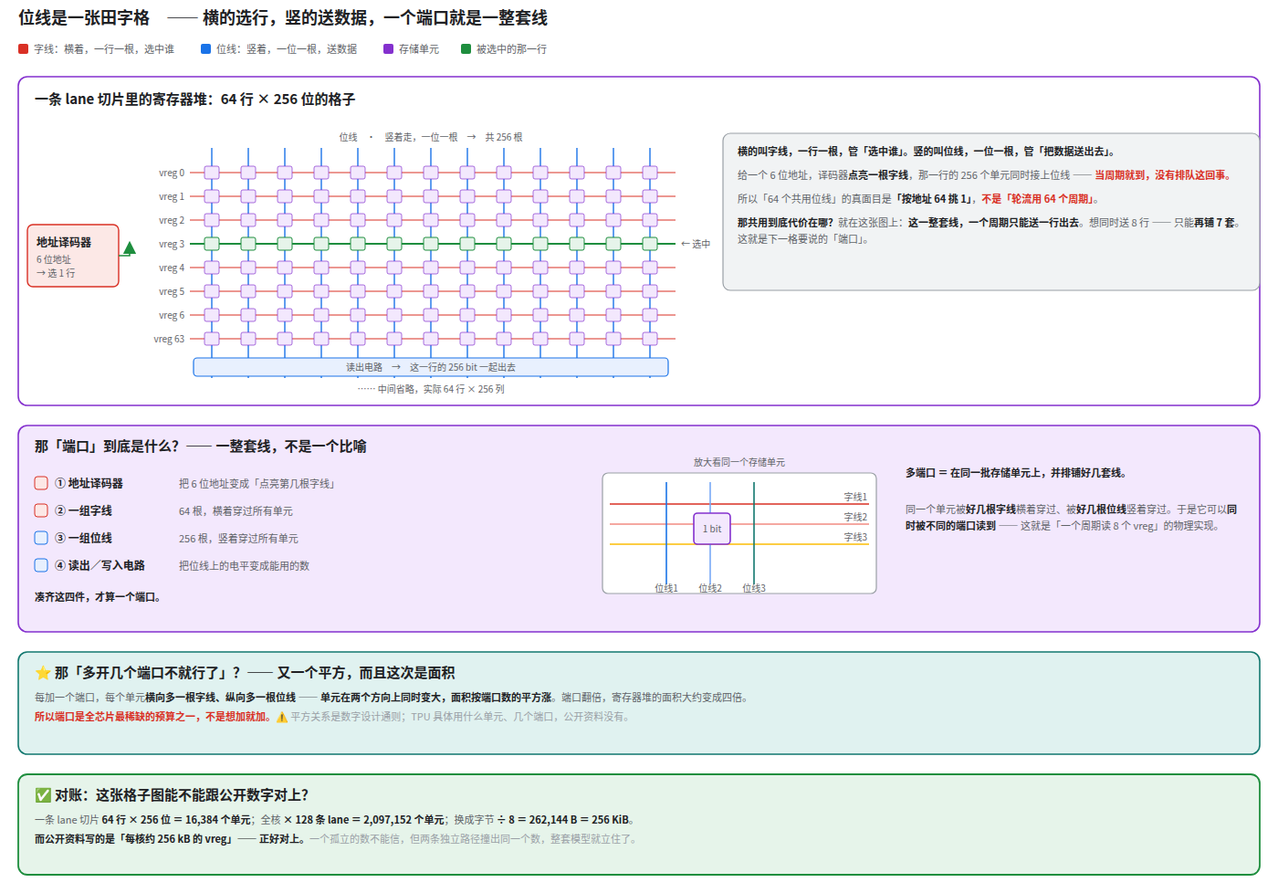
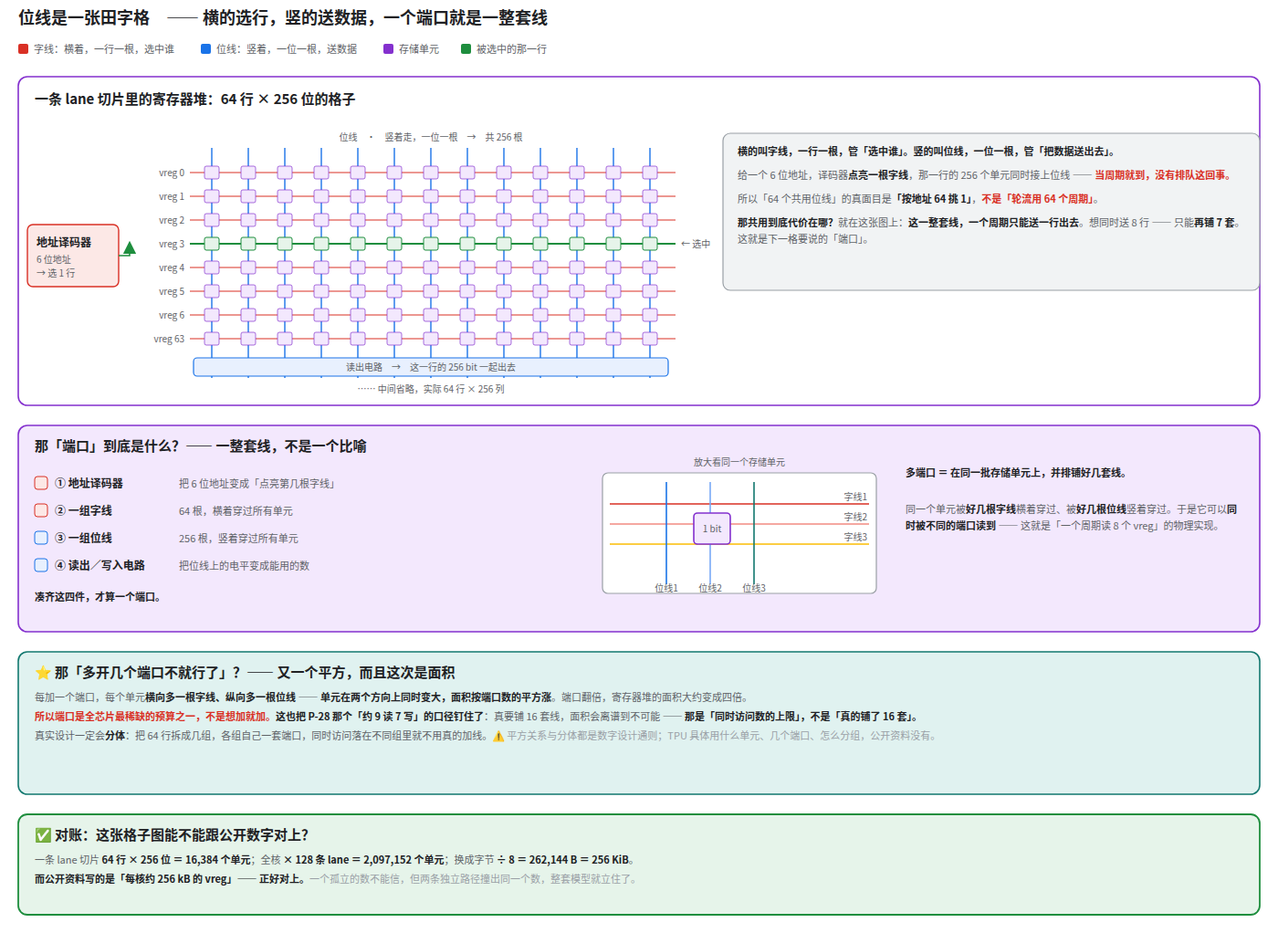
专题二 §3.2：P-26～P-30 五图跨图交叉审计，修 7 处
按维度扫（同一量在各图对账 + 已收回说法是否残留），不按轮次。

硬错三处：
1. P-29 每条 lane 画「ALU ×4」——(lane,sublane) 位置才是 4 个，
   一条 lane 有 8 个 sublane，应为 ×32。原值与全课 4,096 差 8 倍。
   已改 ×32 并补一行 128 × 32 ＝ 4,096 的对账说明。
2. P-28/P-29 说 MXU「阵列比 lane 轴还宽」—— 这依赖代次，
   本文口径是 v5p（128×128），该处并不比 lane 轴宽。
   改为形状论证：权重侧 128 行 vs 一个 vreg 只给 8 行，差 16 倍。
   （中途一版写「相当于 16 个 vreg」也删了 —— 那只在 32 位口径成立。）
3. P-26 docstring 仍把「列与列之间没有直连通路」当成本图的解释，
   而图上那条红带早已把它收回。docstring 改写成收回记录本身。

一致性四处：
4. P-26 底带「仍然没有出处的只剩一件事」—— P-28/29/30 各自又引入了
   推断，这句已不成立。改为不带全称量词的说法。
5. P-28 补一条指向 P-30 的前向指针（「端口」这个词在此处首次落到实处）。
6. P-27 图注不再抢答 P-28 的落点，改为把问题交给下一张图。
7. P-30 新增分体带：把「面积按端口数平方涨」与 P-28 的「约 9 读 7 写」对上 ——
   9/7 是同时访问数的上限，不是真的铺了 16 套线。

九个跨图共享量已逐项对账一致：vreg 个数 64 / 一个 vreg 8×128 /
4 KiB / 全核 256 KiB / ALU 4,096 / 每周期 4 条向量指令 /
每 lane 256 根线 / 端口约 9 读 7 写 / 权重侧差 16 倍。

topic-02.html 重新生成，46 图，29 条禁字自检 0 命中。

Changed region(s): [[0.0, 0.0, 1.0, 0.9509], [0.7064, 0.4908, 0.9829, 0.6135], [0.5836, 0.3067, 0.9829, 0.3374]]

diff --git a/Courses/WebPages/topic-02.html b/Courses/WebPages/topic-02.html
@@ -3876,7 +3876,7 @@ footer a{text-decoration:none}
 <rect x="20" y="896" width="1360" height="92" rx="10" fill="#fce8e6" stroke="#d93025" stroke-width="1.4"/>
 <text x="38" y="924" class="sec">⚠ 一个说法要收回：贵不是因为「没有连线」</text>
 <text x="38" y="950" class="xs">这张图早先的版本写着「列与列之间没有直连通路」——那是想当然，已经删掉。公开资料的说法是：跨 lane <tspan font-weight="700" fill="#202124">至少要过一趟 VMEM／XLU／SMEM</tspan> ——<tspan font-weight="700" fill="#d93025">贵在「出一趟寄存器堆」这个往返，不在缺一根线。</tspan></text>
-<text x="38" y="971" class="xs">下一张图把这个往返画出来。<tspan font-weight="700" fill="#202124">仍然没有出处的只剩一件事：XLU 的内部电路</tspan> ——公开资料只说它是个独立单元、而且慢，没说它里面长什么样。</text>
+<text x="38" y="971" class="xs">下一张图把这个往返画出来。<tspan font-weight="700" fill="#202124">XLU 的内部电路仍然没有出处</tspan> ——公开资料只说它是个独立单元、而且慢，没说它里面长什么样。</text>
 </svg>
 <figcaption>整张图就一件事：<b>同一个寄存器、同一批数，换个方向，代价完全不同</b>。绿的那一列是<b>纵向</b> —— 8 → 4 → 2 → 1，三步，全程没离开自己那套 ALU；红的那一行是<b>横向</b> —— 128 条 lane 各是一套硬件，数要横着走只能交给 <b>XLU</b>，而且往往还得绕一趟 VMEM。<b>黄带才是这张图真正要落的地方</b>：<code>softmax</code> 和 <code>RMSNorm</code> 都沿最后一维求和，而最后一维默认就铺在 lane 方向上 —— <b>最常做的那两个归约，恰好都撞在最贵的方向</b>。⚠ 底带那条不能跳过：<b>「列与列之间没有直连通路」是我给的解释，不是查到的</b>。</figcaption>
 </figure>
@@ -4046,7 +4046,7 @@ footer a{text-decoration:none}
 <text x="38" y="648" class="sec">⚠ 这张图讲的是结构，不是 v7 的规格表</text>
 <text x="38" y="674" class="xs">上面每个数（64 个 vreg、每位置 4 个 ALU、每周期 4 条指令、VMEM 每周期 3 读 1 写）<tspan font-weight="700" fill="#202124">都出自公开资料，而书里标的是 v5p</tspan> —— 它自己就说了 v4 只有 32 个 vreg，<tspan font-weight="700" fill="#202124">所以这些数会跨代变</tspan>。<tspan font-weight="700" fill="#202124">v7 没有同口径的公开数，别把这张图当 v7 的规格表用。</tspan></text>
 </svg>
-<figcaption>上一张图留了个问题：这些部件到底怎么连。<b>答案是中间那个盒子只有一个</b> —— VPU、MXU、XLU 取的是<b>同一批 vreg</b>，各开一个门；既不是各有各的寄存器，也不是挂总线抢带宽。于是「横着走贵」有了更准的说法：<b>贵在要把整个 vreg 交出去、绕一趟、再收回来</b>，不是缺一根线。<b>蓝带那组换算是这门课最该记的一句</b>：一个 ALU ≈ 一个 CUDA core，一条 lane ≈ 一个 warp scheduler ——&nbsp;两边差的从来不是有没有这些部件，是<b>谁在运行时挑活</b>。⚠ 图里的数<b>书里标的是 v5p</b>（v4 只有 32 个 vreg），别当 v7 规格表用。</figcaption>
+<figcaption>上一张图留了个问题：这些部件到底怎么连。<b>答案是中间那个盒子只有一个</b> —— VPU、MXU、XLU 取的是<b>同一批 vreg</b>，各开一个门 —— <b>不是各有各的寄存器</b>（「那到底怎么连的」这个问题下一张图专门答）。于是「横着走贵」有了更准的说法：<b>贵在要把整个 vreg 交出去、绕一趟、再收回来</b>，不是缺一根线。<b>蓝带那组换算是这门课最该记的一句</b>：一个 ALU ≈ 一个 CUDA core，一条 lane ≈ 一个 warp scheduler ——&nbsp;两边差的从来不是有没有这些部件，是<b>谁在运行时挑活</b>。⚠ 图里的数<b>书里标的是 v5p</b>（v4 只有 32 个 vreg），别当 v7 规格表用。</figcaption>
 </figure>
 
   <p><b>「各开一个门」还不够，因为下一个问题必然是：那门后面的线怎么走？</b>
@@ -4125,7 +4125,8 @@ footer a{text-decoration:none}
 <line x1="808" y1="275" x2="1010" y2="275" stroke="#1a73e8" stroke-width="0.7"/>
 <text x="1024" y="274" class="xxs" fill="#1a73e8">装填口</text>
 <text x="1068" y="274" class="xxs" fill="#5f6368">← 便签本</text>
-<text x="674" y="316" class="xs"><tspan font-weight="700" fill="#202124">每一条端口本身就是 128 lane 宽</tspan> —— 128 不是要分给大家用的车道，<tspan font-weight="700" fill="#202124">它是每条通路的宽度</tspan>。真正有限的是<tspan font-weight="700" fill="#202124">端口有几条</tspan>。</text>
+<text x="674" y="316" class="xs"><tspan font-weight="700" fill="#202124">每一条端口本身就是 128 lane 宽</tspan> —— 128 不是要分给大家用的车道，<tspan font-weight="700" fill="#202124">它是每条通路的宽度</tspan>。真正有限的是<tspan font-weight="700" fill="#202124">端口有几条</tspan>。<tspan fill="#9aa0a6">（端口具体是什么</tspan></text>
+<text x="674" y="334" class="xs"><tspan fill="#9aa0a6">线、为什么加不起 —— P-30 拆开画。）</tspan></text>
 <rect x="20" y="352" width="1360" height="96" rx="10" fill="#fef7e0" stroke="#f9ab00" stroke-width="1.6"/>
 <text x="38" y="378" class="sec">🔢 那到底有几条？公开资料没直说 —— 但给了能推的两个数</text>
 <text x="38" y="402" class="xs">① 每周期发 <tspan font-weight="700" fill="#202124">4 条</tspan>向量指令，每条<tspan font-weight="700" fill="#202124">吃 2 个 vreg、写 1 个</tspan>　→　读 8、写 4。　　② 每周期从便签本<tspan font-weight="700" fill="#202124">装 3 个</tspan> vreg、<tspan font-weight="700" fill="#202124">写回 1 个</tspan>　→　再加写 3、读 1。　　<tspan font-weight="700" fill="#202124">合计约 9 读、7 写。</tspan></text>
@@ -4177,8 +4178,9 @@ footer a{text-decoration:none}
 <text x="1066" y="586" class="xxs" fill="#5f6368">队列</text>
 <text x="1126" y="586" class="xs"><tspan font-weight="700" fill="#202124">要</tspan>　←　进料和出料<tspan font-weight="700" fill="#202124">都要</tspan></text>
 <line x1="1066" y1="606" x2="1364" y2="606" stroke="#d93025" stroke-width="0.8" stroke-dasharray="3 3"/>
-<text x="1066" y="626" class="xs">一个 vreg 是 8 × 128，阵列比这大得多，<tspan font-weight="700" fill="#202124">一口喂不满 —— </tspan></text>
-<text x="1066" y="643" class="xs"><tspan font-weight="700" fill="#202124">得连推好几个进去</tspan>。所以它有自己的进料口。</text>
+<text x="1066" y="626" class="xs">一次运算是 <tspan font-weight="700" fill="#202124">8×128 乘 128×128</tspan>。左边那个正好是一个 vreg，</text>
+<text x="1066" y="643" class="xs">可<tspan font-weight="700" fill="#202124">权重那一侧有 128 行，一个 vreg 只给得出 8 行</tspan> —— <tspan font-weight="700" fill="#202124">差</tspan></text>
+<text x="1066" y="660" class="xs"><tspan font-weight="700" fill="#202124"> 16 倍</tspan>，只能分好多趟送。</text>
 <rect x="20" y="742" width="1360" height="112" rx="10" fill="#e8f0fe" stroke="#1a73e8" stroke-width="1.8"/>
 <text x="38" y="770" class="sec" fill="#1a73e8">⭐ 那「撞车」呢？—— 它不存在，因为它在编译期就被消灭了</text>
 <text x="38" y="796" class="xs">TPU 是 <tspan font-weight="700" fill="#202124">VLIW</tspan>：一个指令包里，<tspan font-weight="700" fill="#202124">每类操作有几个固定的位置</tspan>，编译器往里填。填不下就多排一个周期。<tspan font-weight="700" fill="#202124">芯片上没有一个运行时的仲裁器在现场商量谁先走</tspan> —— 冲突不是被解决的，是被<tspan font-weight="700" fill="#202124">提前排掉、根本没机会发生</tspan>。</text>
@@ -4193,7 +4195,7 @@ footer a{text-decoration:none}
     这个质疑<b>完全正确</b>，而且顺着它往下走，正好能把前面所有说法收口 ——&nbsp;
     因为答案不是「线真有那么多」，而是<b>那些线根本不需要汇合到一起</b>。</p>
 <figure class="fbox fwide" id="ms-p29">
-<svg viewBox="0 0 1400 866" width="100%" xmlns="http://www.w3.org/2000/svg" role="img" aria-label="TPU 的向量寄存器堆在版图上被切成 128 条，每条紧贴自己那条 lane 的 ALU；跨 lane 才需要真正的长线，所以才有独立的 XLU">
+<svg viewBox="0 0 1400 892" width="100%" xmlns="http://www.w3.org/2000/svg" role="img" aria-label="TPU 的向量寄存器堆在版图上被切成 128 条，每条紧贴自己那条 lane 的 ALU；跨 lane 才需要真正的长线，所以才有独立的 XLU">
 <text x="20" y="26" class="ttl">版图上它是<tspan font-weight="700">碎的</tspan>　—— 一个 vreg 不用扯 32,768 根线出去，因为那些线<tspan font-weight="700">从来不汇合</tspan></text>
 <rect x="20" y="48" width="11" height="11" rx="2" fill="#8430ce"/>
 <text x="37" y="58" class="sm">vreg 存储（切片）</text>
@@ -4207,7 +4209,7 @@ footer a{text-decoration:none}
 <text x="38" y="110" class="sec">🔢 先纠一个单位：<tspan font-weight="700">一根走线传的是一个 bit，不是一个数</tspan></text>
 <text x="38" y="134" class="xs">一个 vreg ＝ 8 sublane × 128 lane × 32 bit ＝ <tspan font-weight="700" fill="#202124">32,768 bit</tspan>　→　<tspan font-weight="700" fill="#202124">要一次整个读出来，就是 32,768 根线</tspan>，不是 128 根。</text>
 <text x="38" y="154" class="xs"><tspan font-weight="700" fill="#d93025">「那也太荒唐了」—— 对，所以它不是一整块。</tspan>下面这张图就是它真实的样子。</text>
-<rect x="20" y="198" width="1360" height="274" rx="10" fill="#fff" stroke="#8430ce" stroke-width="1.6"/>
+<rect x="20" y="198" width="1360" height="300" rx="10" fill="#fff" stroke="#8430ce" stroke-width="1.6"/>
 <rect x="40" y="244" width="58" height="120" rx="4" fill="#f3e8fd" stroke="#8430ce" stroke-width="1.2"/>
 <rect x="47" y="254" width="44" height="9" rx="1" fill="#fff" stroke="#8430ce" stroke-width="0.6"/>
 <rect x="47" y="268" width="44" height="9" rx="1" fill="#fff" stroke="#8430ce" stroke-width="0.6"/>
@@ -4220,7 +4222,7 @@ footer a{text-decoration:none}
 <line x1="69.0" y1="364" x2="69.0" y2="394" stroke="#9aa0a6" stroke-width="5.0"/>
 <rect x="40" y="394" width="58" height="42" rx="4" fill="#e6f4ea" stroke="#1e8e3e" stroke-width="1.2"/>
 <text x="69.0" y="412" class="xxs" fill="#1e8e3e" text-anchor="middle">ALU</text>
-<text x="69.0" y="427" class="xxs" fill="#5f6368" text-anchor="middle">×4</text>
+<text x="69.0" y="427" class="xxs" fill="#5f6368" text-anchor="middle">×32</text>
 <text x="69.0" y="452" class="xxs" fill="#5f6368" text-anchor="middle">lane 0</text>
 <rect x="104" y="244" width="58" height="120" rx="4" fill="#f3e8fd" stroke="#8430ce" stroke-width="1.2"/>
 <rect x="111" y="254" width="44" height="9" rx="1" fill="#fff" stroke="#8430ce" stroke-width="0.6"/>
@@ -4234,7 +4236,7 @@ footer a{text-decoration:none}
 <line x1="133.0" y1="364" x2="133.0" y2="394" stroke="#9aa0a6" stroke-width="5.0"/>
 <rect x="104" y="394" width="58" height="42" rx="4" fill="#e6f4ea" stroke="#1e8e3e" stroke-width="1.2"/>
 <text x="133.0" y="412" class="xxs" fill="#1e8e3e" text-anchor="middle">ALU</text>
-<text x="133.0" y="427" class="xxs" fill="#5f6368" text-anchor="middle">×4</text>
+<text x="133.0" y="427" class="xxs" fill="#5f6368" text-anchor="middle">×32</text>
 <text x="133.0" y="452" class="xxs" fill="#5f6368" text-anchor="middle">lane 1</text>
 <rect x="168" y="244" width="58" height="120" rx="4" fill="#f3e8fd" stroke="#8430ce" stroke-width="1.2"/>
 <rect x="175" y="254" width="44" height="9" rx="1" fill="#fff" stroke="#8430ce" stroke-width="0.6"/>
@@ -4248,7 +4250,7 @@ footer a{text-decoration:none}
 <line x1="197.0" y1="364" x2="197.0" y2="394" stroke="#9aa0a6" stroke-width="5.0"/>
 <rect x="168" y="394" width="58" height="42" rx="4" fill="#e6f4ea" stroke="#1e8e3e" stroke-width="1.2"/>
 <text x="197.0" y="412" class="xxs" fill="#1e8e3e" text-anchor="middle">ALU</text>
-<text x="197.0" y="427" class="xxs" fill="#5f6368" text-anchor="middle">×4</text>
+<text x="197.0" y="427" class="xxs" fill="#5f6368" text-anchor="middle">×32</text>
 <text x="197.0" y="452" class="xxs" fill="#5f6368" text-anchor="middle">lane 2</text>
 <rect x="232" y="244" width="58" height="120" rx="4" fill="#f3e8fd" stroke="#8430ce" stroke-width="1.2"/>
 <rect x="239" y="254" width="44" height="9" rx="1" fill="#fff" stroke="#8430ce" stroke-width="0.6"/>
@@ -4262,7 +4264,7 @@ footer a{text-decoration:none}
 <line x1="261.0" y1="364" x2="261.0" y2="394" stroke="#9aa0a6" stroke-width="5.0"/>
 <rect x="232" y="394" width="58" height="42" rx="4" fill="#e6f4ea" stroke="#1e8e3e" stroke-width="1.2"/>
 <text x="261.0" y="412" class="xxs" fill="#1e8e3e" text-anchor="middle">ALU</text>
-<text x="261.0" y="427" class="xxs" fill="#5f6368" text-anchor="middle">×4</text>
+<text x="261.0" y="427" class="xxs" fill="#5f6368" text-anchor="middle">×32</text>
 <text x="261.0" y="452" class="xxs" fill="#5f6368" text-anchor="middle">lane 3</text>
 <rect x="296" y="244" width="58" height="120" rx="4" fill="#f3e8fd" stroke="#8430ce" stroke-width="1.2"/>
 <rect x="303" y="254" width="44" height="9" rx="1" fill="#fff" stroke="#8430ce" stroke-width="0.6"/>
@@ -4276,7 +4278,7 @@ footer a{text-decoration:none}
 <line x1="325.0" y1="364" x2="325.0" y2="394" stroke="#9aa0a6" stroke-width="5.0"/>
 <rect x="296" y="394" width="58" height="42" rx="4" fill="#e6f4ea" stroke="#1e8e3e" stroke-width="1.2"/>
 <text x="325.0" y="412" class="xxs" fill="#1e8e3e" text-anchor="middle">ALU</text>
-<text x="325.0" y="427" class="xxs" fill="#5f6368" text-anchor="middle">×4</text>
+<text x="325.0" y="427" class="xxs" fill="#5f6368" text-anchor="middle">×32</text>
 <text x="325.0" y="452" class="xxs" fill="#5f6368" text-anchor="middle">lane 4</text>
 <rect x="360" y="244" width="58" height="120" rx="4" fill="#f3e8fd" stroke="#8430ce" stroke-width="1.2"/>
 <rect x="367" y="254" width="44" height="9" rx="1" fill="#fff" stroke="#8430ce" stroke-width="0.6"/>
@@ -4290,7 +4292,7 @@ footer a{text-decoration:none}
 <line x1="389.0" y1="364" x2="389.0" y2="394" stroke="#9aa0a6" stroke-width="5.0"/>
 <rect x="360" y="394" width="58" height="42" rx="4" fill="#e6f4ea" stroke="#1e8e3e" stroke-width="1.2"/>
 <text x="389.0" y="412" class="xxs" fill="#1e8e3e" text-anchor="middle">ALU</text>
-<text x="389.0" y="427" class="xxs" fill="#5f6368" text-anchor="middle">×4</text>
+<text x="389.0" y="427" class="xxs" fill="#5f6368" text-anchor="middle">×32</text>
 <text x="389.0" y="452" class="xxs" fill="#5f6368" text-anchor="middle">lane 5</text>
 <rect x="424" y="244" width="58" height="120" rx="4" fill="#f3e8fd" stroke="#8430ce" stroke-width="1.2"/>
 <rect x="431" y="254" width="44" height="9" rx="1" fill="#fff" stroke="#8430ce" stroke-width="0.6"/>
@@ -4304,7 +4306,7 @@ footer a{text-decoration:none}
 <line x1="453.0" y1="364" x2="453.0" y2="394" stroke="#9aa0a6" stroke-width="5.0"/>
 <rect x="424" y="394" width="58" height="42" rx="4" fill="#e6f4ea" stroke="#1e8e3e" stroke-width="1.2"/>
 <text x="453.0" y="412" class="xxs" fill="#1e8e3e" text-anchor="middle">ALU</text>
-<text x="453.0" y="427" class="xxs" fill="#5f6368" text-anchor="middle">×4</text>
+<text x="453.0" y="427" class="xxs" fill="#5f6368" text-anchor="middle">×32</text>
 <text x="453.0" y="452" class="xxs" fill="#5f6368" text-anchor="middle">lane 6</text>
 <rect x="488" y="244" width="58" height="120" rx="4" fill="#f3e8fd" stroke="#8430ce" stroke-width="1.2"/>
 <rect x="495" y="254" width="44" height="9" rx="1" fill="#fff" stroke="#8430ce" stroke-width="0.6"/>
@@ -4318,7 +4320,7 @@ footer a{text-decoration:none}
 <line x1="517.0" y1="364" x2="517.0" y2="394" stroke="#9aa0a6" stroke-width="5.0"/>
 <rect x="488" y="394" width="58" height="42" rx="4" fill="#e6f4ea" stroke="#1e8e3e" stroke-width="1.2"/>
 <text x="517.0" y="412" class="xxs" fill="#1e8e3e" text-anchor="middle">ALU</text>
-<text x="517.0" y="427" class="xxs" fill="#5f6368" text-anchor="middle">×4</text>
+<text x="517.0" y="427" class="xxs" fill="#5f6368" text-anchor="middle">×32</text>
 <text x="517.0" y="452" class="xxs" fill="#5f6368" text-anchor="middle">lane 7</text>
 <rect x="552" y="244" width="58" height="120" rx="4" fill="#f3e8fd" stroke="#8430ce" stroke-width="1.2"/>
 <rect x="559" y="254" width="44" height="9" rx="1" fill="#fff" stroke="#8430ce" stroke-width="0.6"/>
@@ -4332,7 +4334,7 @@ footer a{text-decoration:none}
 <line x1="581.0" y1="364" x2="581.0" y2="394" stroke="#9aa0a6" stroke-width="5.0"/>
 <rect x="552" y="394" width="58" height="42" rx="4" fill="#e6f4ea" stroke="#1e8e3e" stroke-width="1.2"/>
 <text x="581.0" y="412" class="xxs" fill="#1e8e3e" text-anchor="middle">ALU</text>
-<text x="581.0" y="427" class="xxs" fill="#5f6368" text-anchor="middle">×4</text>
+<text x="581.0" y="427" class="xxs" fill="#5f6368" text-anchor="middle">×32</text>
 <text x="581.0" y="452" class="xxs" fill="#5f6368" text-anchor="middle">lane 8</text>
 <text x="638" y="374" class="ttl" fill="#5f6368" text-anchor="middle">…</text>
 <rect x="662" y="244" width="58" height="120" rx="4" fill="#f3e8fd" stroke="#8430ce" stroke-width="1.2"/>
@@ -4347,8 +4349,9 @@ footer a{text-decoration:none}
 <line x1="691.0" y1="364" x2="691.0" y2="394" stroke="#9aa0a6" stroke-width="5.0"/>
 <rect x="662" y="394" width="58" height="42" rx="4" fill="#e6f4ea" stroke="#1e8e3e" stroke-width="1.2"/>
 <text x="691.0" y="412" class="xxs" fill="#1e8e3e" text-anchor="middle">ALU</text>
-<text x="691.0" y="427" class="xxs" fill="#5f6368" text-anchor="middle">×4</text>
+<text x="691.0" y="427" class="xxs" fill="#5f6368" text-anchor="middle">×32</text>
 <text x="691.0" y="452" class="xxs" fill="#5f6368" text-anchor="middle">lane 127</text>
+<text x="380.0" y="472" class="xxs" fill="#5f6368" text-anchor="middle">每条 lane 底下 8 × 4 ＝ 32 个 ALU　→　128 × 32 ＝ 4,096，这就是公开资料那个数</text>
 <line x1="40" y1="228" x2="720" y2="228" stroke="#8430ce" stroke-width="1.2" stroke-dasharray="4 3"/>
 <text x="380.0" y="222" class="xxs" fill="#8430ce" text-anchor="middle">同一个 vreg 的 128 个切片　—— 它们并排，但彼此不相连</text>
 <text x="79.0" y="383.0" class="xxs" fill="#202124">256 根</text>
@@ -4357,37 +4360,38 @@ footer a{text-decoration:none}
 <text x="802" y="276" class="xs">128 份加起来确实是 32,768 根，<tspan font-weight="700" fill="#d93025">但它们从来不汇合</tspan>。所以「128 宽」是 <tspan font-weight="700" fill="#202124">128 份并行的硬件</tspan>，不是一条粗 128 </text>
 <text x="802" y="294" class="xs">倍的线。</text>
 <text x="802" y="320" class="xs"><tspan font-weight="700" fill="#202124">「顶多一百多根」这个直觉是对的</tspan> —— 那是每条 lane 的局部数，被当成了全局数。</text>
-<rect x="20" y="494" width="438" height="214" rx="9" fill="#f3e8fd" stroke="#8430ce" stroke-width="1.4"/>
-<text x="34" y="518" class="box" fill="#8430ce">① vreg ↔ 其他 63 个 vreg</text>
-<text x="444" y="518" class="xxs" fill="#5f6368" text-anchor="end">完全不连</text>
-<text x="34" y="542" class="xs"><tspan font-weight="700" fill="#202124">它们之间没有任何直接通路。</tspan>要把 vreg 3 挪到 vreg 7，唯一的办法是<tspan font-weight="700" fill="#202124">读出来、过</tspan></text>
-<text x="34" y="560" class="xs"><tspan font-weight="700" fill="#202124">一遍 ALU、再写回去</tspan>。</text>
-<line x1="34" y1="584" x2="444" y2="584" stroke="#8430ce" stroke-width="0.8" stroke-dasharray="3 3"/>
-<text x="34" y="604" class="xs">它们共用<tspan font-weight="700" fill="#202124">位线</tspan>：一条切片里 64 行共用一组线，靠<tspan font-weight="700" fill="#202124">地址</tspan>挑一行。<tspan font-weight="700" fill="#d93025">但这不是轮转排队</tspan> </text>
-<text x="34" y="622" class="xs">—— 你要哪一行就是哪一行，<tspan font-weight="700" fill="#202124">当周期就到</tspan>，不存在「等 64 个周期才轮到我」。共用</text>
-<text x="34" y="640" class="xs">的代价是<tspan font-weight="700" fill="#202124">一条端口一个周期只能送一行</tspan>：想同时送 8 行，就得有 8 条端口 —— <tspan font-weight="700" fill="#202124">真</tspan></text>
-<text x="34" y="658" class="xs"><tspan font-weight="700" fill="#202124">正的预算是端口数，不是 64。</tspan></text>
-<rect x="476" y="494" width="438" height="214" rx="9" fill="#e6f4ea" stroke="#1e8e3e" stroke-width="1.4"/>
-<text x="490" y="518" class="box" fill="#1e8e3e">② vreg ↔ VPU</text>
-<text x="900" y="518" class="xxs" fill="#5f6368" text-anchor="end">贴着，几微米</text>
-<text x="490" y="542" class="xs">根本不用「扯出去」。<tspan font-weight="700" fill="#202124">vreg 的 lane 5 和 ALU 的 lane 5 在芯片上是挨着的</tspan>，</text>
-<text x="490" y="560" class="xs">中间就是那 256 根短线。</text>
-<line x1="490" y1="584" x2="900" y2="584" stroke="#1e8e3e" stroke-width="0.8" stroke-dasharray="3 3"/>
-<text x="490" y="604" class="xs"><tspan font-weight="700" fill="#202124">这就是逐元素算子便宜的物理原因</tspan>：它走的是全芯片最短的一条路，而且 128 条同</text>
-<text x="490" y="622" class="xs">时在走。</text>
-<rect x="932" y="494" width="438" height="214" rx="9" fill="#fce8e6" stroke="#d93025" stroke-width="1.4"/>
-<text x="946" y="518" class="box" fill="#d93025">③ vreg ↔ MXU / XLU</text>
-<text x="1356" y="518" class="xxs" fill="#5f6368" text-anchor="end">真的要扯出去</text>
-<text x="946" y="542" class="xs">MXU 是个<tspan font-weight="700" fill="#202124">独立的块</tspan>，阵列比 lane 轴还宽，一口喂不满；XLU 更是<tspan font-weight="700" fill="#202124">必须同时够到全</tspan></text>
-<text x="946" y="560" class="xs"><tspan font-weight="700" fill="#202124">部 128 条 lane</tspan>。</text>
-<line x1="946" y1="584" x2="1356" y2="584" stroke="#d93025" stroke-width="0.8" stroke-dasharray="3 3"/>
-<text x="946" y="604" class="xs"><tspan font-weight="700" fill="#d93025">所以只有这两条是真正的长路。</tspan>它们因此各自配了进料口、结果队列，而且<tspan font-weight="700" fill="#202124">全核只有</tspan></text>
-<text x="946" y="622" class="xs"><tspan font-weight="700" fill="#202124">一两个</tspan> —— 长而宽的路，芯片不会多铺。</text>
-<rect x="20" y="730" width="1360" height="116" rx="10" fill="#fce8e6" stroke="#d93025" stroke-width="1.6"/>
-<text x="38" y="756" class="sec">⚠ 「按 lane 切片」这件事是推出来的，不是查到的版图</text>
-<text x="38" y="780" class="xs">推导链有两条。<tspan font-weight="700" fill="#202124">一</tspan>：4,096 个 ALU 不可能靠一个集中的寄存器堆去喂，布线在物理上过不去。<tspan font-weight="700" fill="#202124">二</tspan>：如果寄存器堆是集中的，那个交叉开关本来就在那儿了，跨 lane 就不该特别贵 —— <tspan font-weight="700" fill="#202124">而它特别贵，还专门做了一个独立单元。「XLU 存在」这件事本身，就是版图按 lane </tspan></text>
-<text x="38" y="798" class="xs"><tspan font-weight="700" fill="#202124">切的证据。</tspan></text>
-<text x="38" y="818" class="xs"><tspan font-weight="700" fill="#d93025">没查到的：具体的 bank 怎么划、位线怎么排、真实 floorplan —— 公开资料没有。</tspan>上面讲的是<tspan font-weight="700" fill="#202124">数量级和拓扑</tspan>，不是版图图纸。</text>
+<rect x="20" y="520" width="438" height="214" rx="9" fill="#f3e8fd" stroke="#8430ce" stroke-width="1.4"/>
+<text x="34" y="544" class="box" fill="#8430ce">① vreg ↔ 其他 63 个 vreg</text>
+<text x="444" y="544" class="xxs" fill="#5f6368" text-anchor="end">完全不连</text>
+<text x="34" y="568" class="xs"><tspan font-weight="700" fill="#202124">它们之间没有任何直接通路。</tspan>要把 vreg 3 挪到 vreg 7，唯一的办法是<tspan font-weight="700" fill="#202124">读出来、过</tspan></text>
+<text x="34" y="586" class="xs"><tspan font-weight="700" fill="#202124">一遍 ALU、再写回去</tspan>。</text>
+<line x1="34" y1="610" x2="444" y2="610" stroke="#8430ce" stroke-width="0.8" stroke-dasharray="3 3"/>
+<text x="34" y="630" class="xs">它们共用<tspan font-weight="700" fill="#202124">位线</tspan>：一条切片里 64 行共用一组线，靠<tspan font-weight="700" fill="#202124">地址</tspan>挑一行。<tspan font-weight="700" fill="#d93025">但这不是轮转排队</tspan> </text>
+<text x="34" y="648" class="xs">—— 你要哪一行就是哪一行，<tspan font-weight="700" fill="#202124">当周期就到</tspan>，不存在「等 64 个周期才轮到我」。共用</text>
+<text x="34" y="666" class="xs">的代价是<tspan font-weight="700" fill="#202124">一条端口一个周期只能送一行</tspan>：想同时送 8 行，就得有 8 条端口 —— <tspan font-weight="700" fill="#202124">真</tspan></text>
+<text x="34" y="684" class="xs"><tspan font-weight="700" fill="#202124">正的预算是端口数，不是 64。</tspan></text>
+<rect x="476" y="520" width="438" height="214" rx="9" fill="#e6f4ea" stroke="#1e8e3e" stroke-width="1.4"/>
+<text x="490" y="544" class="box" fill="#1e8e3e">② vreg ↔ VPU</text>
+<text x="900" y="544" class="xxs" fill="#5f6368" text-anchor="end">贴着，几微米</text>
+<text x="490" y="568" class="xs">根本不用「扯出去」。<tspan font-weight="700" fill="#202124">vreg 的 lane 5 和 ALU 的 lane 5 在芯片上是挨着的</tspan>，</text>
+<text x="490" y="586" class="xs">中间就是那 256 根短线。</text>
+<line x1="490" y1="610" x2="900" y2="610" stroke="#1e8e3e" stroke-width="0.8" stroke-dasharray="3 3"/>
+<text x="490" y="630" class="xs"><tspan font-weight="700" fill="#202124">这就是逐元素算子便宜的物理原因</tspan>：它走的是全芯片最短的一条路，而且 128 条同</text>
+<text x="490" y="648" class="xs">时在走。</text>
+<rect x="932" y="520" width="438" height="214" rx="9" fill="#fce8e6" stroke="#d93025" stroke-width="1.4"/>
+<text x="946" y="544" class="box" fill="#d93025">③ vreg ↔ MXU / XLU</text>
+<text x="1356" y="544" class="xxs" fill="#5f6368" text-anchor="end">真的要扯出去</text>
+<text x="946" y="568" class="xs">MXU 是个<tspan font-weight="700" fill="#202124">独立的块</tspan>：一次运算吃 <tspan font-weight="700" fill="#202124">8×128 乘 128×128</tspan>。左边正好一个 vreg，可<tspan font-weight="700" fill="#202124">权重</tspan></text>
+<text x="946" y="586" class="xs"><tspan font-weight="700" fill="#202124">那侧有 128 行，一个 vreg 只给 8 行</tspan> —— <tspan font-weight="700" fill="#202124">差 16 倍</tspan>，喂不满；XLU 更是<tspan font-weight="700" fill="#202124">必须同</tspan></text>
+<text x="946" y="604" class="xs"><tspan font-weight="700" fill="#202124">时够到全部 128 条 lane</tspan>。</text>
+<line x1="946" y1="628" x2="1356" y2="628" stroke="#d93025" stroke-width="0.8" stroke-dasharray="3 3"/>
+<text x="946" y="648" class="xs"><tspan font-weight="700" fill="#d93025">所以只有这两条是真正的长路。</tspan>它们因此各自配了进料口、结果队列，而且<tspan font-weight="700" fill="#202124">全核只有</tspan></text>
+<text x="946" y="666" class="xs"><tspan font-weight="700" fill="#202124">一两个</tspan> —— 长而宽的路，芯片不会多铺。</text>
+<rect x="20" y="756" width="1360" height="116" rx="10" fill="#fce8e6" stroke="#d93025" stroke-width="1.6"/>
+<text x="38" y="782" class="sec">⚠ 「按 lane 切片」这件事是推出来的，不是查到的版图</text>
+<text x="38" y="806" class="xs">推导链有两条。<tspan font-weight="700" fill="#202124">一</tspan>：4,096 个 ALU 不可能靠一个集中的寄存器堆去喂，布线在物理上过不去。<tspan font-weight="700" fill="#202124">二</tspan>：如果寄存器堆是集中的，那个交叉开关本来就在那儿了，跨 lane 就不该特别贵 —— <tspan font-weight="700" fill="#202124">而它特别贵，还专门做了一个独立单元。「XLU 存在」这件事本身，就是版图按 lane </tspan></text>
+<text x="38" y="824" class="xs"><tspan font-weight="700" fill="#202124">切的证据。</tspan></text>
+<text x="38" y="844" class="xs"><tspan font-weight="700" fill="#d93025">没查到的：具体的 bank 怎么划、位线怎么排、真实 floorplan —— 公开资料没有。</tspan>上面讲的是<tspan font-weight="700" fill="#202124">数量级和拓扑</tspan>，不是版图图纸。</text>
 </svg>
 <figcaption>P-28 说「每条端口本身就是 128 宽」，最较真的追问紧接着就来：<b>一个 vreg 才 4 KB，它怎么可能扯出去那么多根线？</b>这个质疑<b>完全正确</b> —— 而且答案不是「线真有那么多」，是<b>「它们根本不需要汇合」</b>。先纠单位：一根走线传<b>一个 bit</b>，所以一个 vreg 是 8 × 128 × 32 ＝ <b>32,768 根</b>，不是 128 根。荒唐 → 所以它不是一整块：<b>整条数据通路按 lane 切成 128 份，存储就贴在自己那条 lane 的 ALU 旁边</b>，每份只要 <b>256 根线、走几微米</b>。于是三个问题一次答完：<b>64 个 vreg 之间完全不连</b>（只共用位线，而且是<b>按地址选通、当周期就到</b>，<b>不是轮转排队</b> —— 共用的代价是「一条端口一周期只送一行」，不是「等 64 个周期」）；<b>到 VPU 是贴着的</b>；<b>只有 MXU 和 XLU 才真的要扯长线</b> —— 这也正是它们要队列、要共享的原因。⚠ 红带那条必须念：<b>「按 lane 切片」是推的，不是查到的版图</b>，具体 bank 划分与 floorplan 公开资料没有。</figcaption>
 </figure>
@@ -4397,7 +4401,7 @@ footer a{text-decoration:none}
     <b>那样推下去，64 个 vreg 岂不是要 64 个周期才轮到一回？</b>
     而公开资料明说一个周期就能到 VPU。<b>两句话对不上，对不上的是那个比喻，不是硬件。</b></p>
 <figure class="fbox fwide" id="ms-p30">
-<svg viewBox="0 0 1400 978" width="100%" xmlns="http://www.w3.org/2000/svg" role="img" aria-label="TPU 向量寄存器堆的位线结构：横向字线按地址选中一行，纵向位线把那一行的数据送出去；一个端口就是一整套这样的线">
+<svg viewBox="0 0 1400 1022" width="100%" xmlns="http://www.w3.org/2000/svg" role="img" aria-label="TPU 向量寄存器堆的位线结构：横向字线按地址选中一行，纵向位线把那一行的数据送出去；一个端口就是一整套这样的线">
 <text x="20" y="26" class="ttl">位线是一张<tspan font-weight="700">田字格</tspan>　—— 横的选行，竖的送数据，<tspan font-weight="700">一个端口就是一整套线</tspan></text>
 <rect x="20" y="48" width="11" height="11" rx="2" fill="#d93025"/>
 <text x="37" y="58" class="sm">字线：横着，一行一根，选中谁</text>
@@ -4592,14 +4596,15 @@ footer a{text-decoration:none}
 <text x="992" y="522" class="xs"><tspan font-weight="700" fill="#202124">多端口 ＝ 在同一批存储单元上，并排铺好几套线。</tspan></text>
 <text x="992" y="562" class="xs">同一个单元被<tspan font-weight="700" fill="#202124">好几根字线</tspan>横着穿过、被<tspan font-weight="700" fill="#202124">好几根位线</tspan>竖着穿过。于是它可以<tspan font-weight="700" fill="#202124">同</tspan></text>
 <text x="992" y="580" class="xs"><tspan font-weight="700" fill="#202124">时被不同的端口读到</tspan> —— 这就是「一个周期读 8 个 vreg」的物理实现。</text>
-<rect x="20" y="714" width="1360" height="112" rx="10" fill="#e0f2f0" stroke="#12786f" stroke-width="1.6"/>
+<rect x="20" y="714" width="1360" height="156" rx="10" fill="#e0f2f0" stroke="#12786f" stroke-width="1.6"/>
 <text x="38" y="742" class="sec" fill="#12786f">⭐ 那「多开几个端口不就行了」？—— 又一个平方，而且这次是面积</text>
 <text x="38" y="768" class="xs">每加一个端口，每个单元<tspan font-weight="700" fill="#202124">横向多一根字线、纵向多一根位线</tspan> —— <tspan font-weight="700" fill="#202124">单元在两个方向上同时变大，面积按端口数的平方涨</tspan>。端口翻倍，寄存器堆的面积大约变成四倍。</text>
-<text x="38" y="789" class="xs"><tspan font-weight="700" fill="#d93025">所以端口是全芯片最稀缺的预算之一，不是想加就加。</tspan><tspan fill="#9aa0a6">⚠ 平方关系是数字设计通则；TPU 具体用什么单元、几个端口，公开资料没有。</tspan></text>
-<rect x="20" y="848" width="1360" height="110" rx="10" fill="#e6f4ea" stroke="#1e8e3e" stroke-width="1.8"/>
-<text x="38" y="876" class="sec" fill="#1e8e3e">✅ 对账：这张格子图能不能跟公开数字对上？</text>
-<text x="38" y="902" class="xs">一条 lane 切片 <tspan font-weight="700" fill="#202124">64 行 × 256 位 ＝ 16,384 个单元</tspan>；全核 <tspan font-weight="700" fill="#202124">× 128 条 lane ＝ 2,097,152 个单元</tspan>；换成字节 <tspan font-weight="700" fill="#202124">÷ 8 ＝ 262,144 B ＝ 256 KiB</tspan>。</text>
-<text x="38" y="923" class="xs"><tspan font-weight="700" fill="#202124">而公开资料写的是「每核约 256 kB 的 vreg」—— 正好对上。</tspan><tspan fill="#9aa0a6">一个孤立的数不能信，但两条独立路径撞出同一个数，整套模型就立住了。</tspan></text>
+<text x="38" y="789" class="xs"><tspan font-weight="700" fill="#d93025">所以端口是全芯片最稀缺的预算之一，不是想加就加。</tspan><tspan font-weight="700" fill="#202124">这也把 P-28 那个「约 9 读 7 写」的口径钉住了</tspan>：真要铺 16 套线，面积会离谱到不可能 —— <tspan font-weight="700" fill="#202124">那是「同时访问数的上限」，不是「真的铺了 16 套」。</tspan></text>
+<text x="38" y="810" class="xs">真实设计一定会<tspan font-weight="700" fill="#202124">分体</tspan>：把 64 行拆成几组，各组自己一套端口，同时访问落在不同组里就不用真的加线。<tspan fill="#9aa0a6">⚠ 平方关系与分体都是数字设计通则；TPU 具体用什么单元、几个端口、怎么分组，公开资料没有。</tspan></text>
+<rect x="20" y="892" width="1360" height="110" rx="10" fill="#e6f4ea" stroke="#1e8e3e" stroke-width="1.8"/>
+<text x="38" y="920" class="sec" fill="#1e8e3e">✅ 对账：这张格子图能不能跟公开数字对上？</text>
+<text x="38" y="946" class="xs">一条 lane 切片 <tspan font-weight="700" fill="#202124">64 行 × 256 位 ＝ 16,384 个单元</tspan>；全核 <tspan font-weight="700" fill="#202124">× 128 条 lane ＝ 2,097,152 个单元</tspan>；换成字节 <tspan font-weight="700" fill="#202124">÷ 8 ＝ 262,144 B ＝ 256 KiB</tspan>。</text>
+<text x="38" y="967" class="xs"><tspan font-weight="700" fill="#202124">而公开资料写的是「每核约 256 kB 的 vreg」—— 正好对上。</tspan><tspan fill="#9aa0a6">一个孤立的数不能信，但两条独立路径撞出同一个数，整套模型就立住了。</tspan></text>
 </svg>
 <figcaption>「位线」这个词前面用了好几次，但一直没画。它其实就是一张<b>田字格</b>：<b>横着的是字线，一行一根，管「选中谁」；竖着的是位线，一位一根，管「把数据送出去」</b>。给一个 6 位地址，译码器点亮一根字线，那一行的 256 个单元同时接上位线 —— <b>当周期就到，没有排队这回事</b>。所以「64 个共用位线」的真面目是<b>按地址 64 挑 1</b>，<b>不是轮流用 64 个周期</b>。这张图顺带把「端口」落到实处：<b>一个端口 ＝ 译码器 ＋ 一组字线 ＋ 一组位线 ＋ 读出电路</b>，多端口就是在同一批单元上并排铺好几套线 —— 于是「多开几个端口」代价是<b>面积按端口数的平方涨</b>。⭐ 最值得看的是绿带那个对账：<b>64 × 256 × 128 ÷ 8 ＝ 256 KiB，正好等于公开资料说的「每核约 256 kB vreg」</b> —— 两条独立路径撞出同一个数，前面整套模型才算立住。</figcaption>
 </figure>

diff --git a/Courses/tools/topic02-port-microscope.py b/Courses/tools/topic02-port-microscope.py
@@ -204,7 +204,7 @@ CAP = {
 "p30": "「位线」这个词前面用了好几次，但一直没画。它其实就是一张<b>田字格</b>：<b>横着的是字线，一行一根，管「选中谁」；竖着的是位线，一位一根，管「把数据送出去」</b>。给一个 6 位地址，译码器点亮一根字线，那一行的 256 个单元同时接上位线 —— <b>当周期就到，没有排队这回事</b>。所以「64 个共用位线」的真面目是<b>按地址 64 挑 1</b>，<b>不是轮流用 64 个周期</b>。这张图顺带把「端口」落到实处：<b>一个端口 ＝ 译码器 ＋ 一组字线 ＋ 一组位线 ＋ 读出电路</b>，多端口就是在同一批单元上并排铺好几套线 —— 于是「多开几个端口」代价是<b>面积按端口数的平方涨</b>。⭐ 最值得看的是绿带那个对账：<b>64 × 256 × 128 ÷ 8 ＝ 256 KiB，正好等于公开资料说的「每核约 256 kB vreg」</b> —— 两条独立路径撞出同一个数，前面整套模型才算立住。",
 "p29": "P-28 说「每条端口本身就是 128 宽」，最较真的追问紧接着就来：<b>一个 vreg 才 4 KB，它怎么可能扯出去那么多根线？</b>这个质疑<b>完全正确</b> —— 而且答案不是「线真有那么多」，是<b>「它们根本不需要汇合」</b>。先纠单位：一根走线传<b>一个 bit</b>，所以一个 vreg 是 8 × 128 × 32 ＝ <b>32,768 根</b>，不是 128 根。荒唐 → 所以它不是一整块：<b>整条数据通路按 lane 切成 128 份，存储就贴在自己那条 lane 的 ALU 旁边</b>，每份只要 <b>256 根线、走几微米</b>。于是三个问题一次答完：<b>64 个 vreg 之间完全不连</b>（只共用位线，而且是<b>按地址选通、当周期就到</b>，<b>不是轮转排队</b> —— 共用的代价是「一条端口一周期只送一行」，不是「等 64 个周期」）；<b>到 VPU 是贴着的</b>；<b>只有 MXU 和 XLU 才真的要扯长线</b> —— 这也正是它们要队列、要共享的原因。⚠ 红带那条必须念：<b>「按 lane 切片」是推的，不是查到的版图</b>，具体 bank 划分与 floorplan 公开资料没有。",
 "p28": "上一张图说「各开一个门」，紧接着最自然的追问是：那不就是 128 条车道大家串在一起、时分复用吗？<b>一半对，一半错，而错的那一半最要紧</b>：争用确实有，但争的不是一条共享总线，是<b>端口和发射位</b> —— <b>128 是每条通路的宽度，不是要分给大家的份额</b>。四张卡把四个单元的接法摊开对比，机关在「要不要队列」那一栏：<b>三个都要，理由两两不同</b>（超越函数是因为慢，XLU 是因为共享，MXU 是因为一口喂不满）。落点那条最值得记：<b>撞车不是被解决的，是被编译期提前排掉、根本没机会发生</b> —— GPU 靠运行时记分板现场决定，这正是全课那条分水岭。⚠ 端口那个「约 9 读 7 写」<b>是推的不是原话</b>，图上写了推导链。",
-"p27": "上一张图留了个问题：这些部件到底怎么连。<b>答案是中间那个盒子只有一个</b> —— VPU、MXU、XLU 取的是<b>同一批 vreg</b>，各开一个门；既不是各有各的寄存器，也不是挂总线抢带宽。于是「横着走贵」有了更准的说法：<b>贵在要把整个 vreg 交出去、绕一趟、再收回来</b>，不是缺一根线。<b>蓝带那组换算是这门课最该记的一句</b>：一个 ALU ≈ 一个 CUDA core，一条 lane ≈ 一个 warp scheduler ——&nbsp;两边差的从来不是有没有这些部件，是<b>谁在运行时挑活</b>。⚠ 图里的数<b>书里标的是 v5p</b>（v4 只有 32 个 vreg），别当 v7 规格表用。",
+"p27": "上一张图留了个问题：这些部件到底怎么连。<b>答案是中间那个盒子只有一个</b> —— VPU、MXU、XLU 取的是<b>同一批 vreg</b>，各开一个门 —— <b>不是各有各的寄存器</b>（「那到底怎么连的」这个问题下一张图专门答）。于是「横着走贵」有了更准的说法：<b>贵在要把整个 vreg 交出去、绕一趟、再收回来</b>，不是缺一根线。<b>蓝带那组换算是这门课最该记的一句</b>：一个 ALU ≈ 一个 CUDA core，一条 lane ≈ 一个 warp scheduler ——&nbsp;两边差的从来不是有没有这些部件，是<b>谁在运行时挑活</b>。⚠ 图里的数<b>书里标的是 v5p</b>（v4 只有 32 个 vreg），别当 v7 规格表用。",
 "p24": "中间那个提问框是全课的骨架，右格四句是唯一能带出门、换成别的两块硬件照样用的东西。<b>⚠ 底带那三条限定一条都不能省</b> —— 落点那句单独出门，就只是一个立场。",
 
  "g7": "<b>GPU 怎么藏延迟：一个 warp 卡住就换下一个。</b>"

diff --git a/Courses/tools/t02-figs/fig_p29_slices.py b/Courses/tools/t02-figs/fig_p29_slices.py
@@ -25,7 +25,7 @@ from common import Fig, para, BL, GN, RD, YL, PU, TL, INK, SUB, GREY, FILL
 W = 1400
 
 CNT_Y, CNT_H = 84, 92           # ① 先把线数算出来
-SLC_Y, SLC_H = CNT_Y + CNT_H + 22, 274   # ② 主图：128 条切片
+SLC_Y, SLC_H = CNT_Y + CNT_H + 22, 300   # ② 主图：128 条切片
 Q_Y, Q_H = SLC_Y + SLC_H + 22, 214       # ③ 三个问题的答案
 BND_Y, BND_H = Q_Y + Q_H + 22, 116       # ④ 边界：哪些是推的
 H = BND_Y + BND_H + 20
@@ -87,7 +87,7 @@ def _slices(f):
         # ALU
         f.rect(x, ay, SLW, ALU_H, FILL[gc], gc, 1.2, 4)
         f.t(x + SLW / 2, ay + 18, "ALU", "xxs", gc, anchor="middle")
-        f.t(x + SLW / 2, ay + 33, "×4", "xxs", SUB, anchor="middle")
+        f.t(x + SLW / 2, ay + 33, "×32", "xxs", SUB, anchor="middle")
         f.t(x + SLW / 2, ay + ALU_H + 16, label, "xxs", SUB, anchor="middle")
 
     for i in range(NSL):
@@ -95,6 +95,12 @@ def _slices(f):
     ex = SX0 + NSL * PITCH
     f.t(ex + 22, ay - 20, "…", "ttl", SUB, anchor="middle")
     one(ex + 46, "lane 127")
+    # ⚠ 这个 32 必须写出来。P-27 给的是「每个 (lane, sublane) 位置 4 个 ALU」，
+    #    一条 lane 有 8 个 sublane，所以一条 lane 底下是 8 × 4 ＝ 32 个 ——
+    #    早先这里写 ×4，跟全课那个 4,096 差了整整 8 倍。
+    f.t((SX0 + ex + 46 + SLW) / 2, ay + ALU_H + 36,
+        "每条 lane 底下 8 × 4 ＝ 32 个 ALU　→　128 × 32 ＝ 4,096，"
+        "这就是公开资料那个数", "xxs", SUB, anchor="middle")
 
     # 顶部一条括号，说明这一整排就是「一个 vreg」
     bx0, bx1 = SX0, ex + 46 + SLW
@@ -136,7 +142,9 @@ QA = [
      "<b>这就是逐元素算子便宜的物理原因</b>：它走的是全芯片最短的一条路，"
      "而且 128 条同时在走。"),
     (RD, "③ vreg ↔ MXU / XLU", "真的要扯出去",
-     "MXU 是个<b>独立的块</b>，阵列比 lane 轴还宽，一口喂不满；"
+     "MXU 是个<b>独立的块</b>：一次运算吃 <b>8×128 乘 128×128</b>。"
+     "左边正好一个 vreg，可<b>权重那侧有 128 行，一个 vreg 只给 8 行</b> —— "
+     "<b>差 16 倍</b>，喂不满；"
      "XLU 更是<b>必须同时够到全部 128 条 lane</b>。",
      "<r>所以只有这两条是真正的长路。</r>它们因此各自配了进料口、结果队列，"
      "而且<b>全核只有一两个</b> —— 长而宽的路，芯片不会多铺。"),

diff --git a/Courses/tools/t02-figs/fig_p30_bitline.py b/Courses/tools/t02-figs/fig_p30_bitline.py
@@ -28,7 +28,7 @@ W = 1400
 
 GRID_Y, GRID_H = 84, 360        # ① 田字格
 PORT_Y, PORT_H = GRID_Y + GRID_H + 22, 226   # ② 端口是什么
-SQ_Y, SQ_H = PORT_Y + PORT_H + 22, 112       # ③ 为什么端口贵
+SQ_Y, SQ_H = PORT_Y + PORT_H + 22, 156       # ③ 为什么端口贵
 CHK_Y, CHK_H = SQ_Y + SQ_H + 22, 110         # ④ 对账
 H = CHK_Y + CHK_H + 20
 
@@ -181,10 +181,16 @@ def _square(f):
              "每加一个端口，每个单元<b>横向多一根字线、纵向多一根位线</b> —— "
              "<b>单元在两个方向上同时变大，面积按端口数的平方涨</b>。"
              "端口翻倍，寄存器堆的面积大约变成四倍。", "xs", 19)
+    y = para(f, 38, y + 2, 1324,
+             "<r>所以端口是全芯片最稀缺的预算之一，不是想加就加。</r>"
+             "<b>这也把 P-28 那个「约 9 读 7 写」的口径钉住了</b>："
+             "真要铺 16 套线，面积会离谱到不可能 —— "
+             "<b>那是「同时访问数的上限」，不是「真的铺了 16 套」。</b>", "xs", 19)
     para(f, 38, y + 2, 1324,
-         "<r>所以端口是全芯片最稀缺的预算之一，不是想加就加。</r>"
-         "<g>⚠ 平方关系是数字设计通则；TPU 具体用什么单元、几个端口，公开资料没有。</g>",
-         "xs", 19)
+         "真实设计一定会<b>分体</b>：把 64 行拆成几组，各组自己一套端口，"
+         "同时访问落在不同组里就不用真的加线。"
+         "<g>⚠ 平方关系与分体都是数字设计通则；TPU 具体用什么单元、"
+         "几个端口、怎么分组，公开资料没有。</g>", "xs", 19)
 
 
 # ══════════════════════════════════════════════════════════════════════

diff --git a/Courses/tools/t02-figs/fig_p26_lane_direction.py b/Courses/tools/t02-figs/fig_p26_lane_direction.py
@@ -13,9 +13,15 @@
 分开画就又变成「两件事」了。
 
 **⚠ 证据分层要画出来。**「一次 shuffle 约一个周期」「XLU 慢且贵」「2 个 XLU」
-都是公开资料的说法；而**「列与列之间没有直连通路」是我为「它为什么贵」给的解释** ——
-公开资料没有描述 XLU 的内部电路。底带那条红带不能省，
-它是这张图里唯一一处「我在推，不是查到的」。
+「跨 lane 至少要过一趟 VMEM／XLU／SMEM」都是公开资料的说法。
+
+**底带那条红带不能省，但注意它现在讲的是另一件事。** 早先的版本在那里写
+「列与列之间没有直连通路」，把「贵」归因于缺线 —— <b>那是想当然，已经收回</b>。
+真正的说法是「贵在出一趟寄存器堆的往返」，这条有出处。
+红带留下来是为了<b>把这次收回本身写在图上</b>，顺带交代仍然没出处的那一件：
+<b>XLU 的内部电路长什么样</b>。
+⚠ 改这段文字时别把收回改没了 —— P-28/P-29/P-30 三张图都建立在
+「贵在往返、不在缺线」这个口径上。
 """
 from common import Fig, para, BL, GN, RD, YL, PU, TL, INK, SUB, GREY, FILL
 
@@ -257,7 +263,7 @@ def _bound(f):
              "公开资料的说法是：跨 lane <b>至少要过一趟 VMEM／XLU／SMEM</b> ——"
              "<r>贵在「出一趟寄存器堆」这个往返，不在缺一根线。</r>", "xs", 19)
     para(f, 38, y + 2, 1324,
-         "下一张图把这个往返画出来。<b>仍然没有出处的只剩一件事：XLU 的内部电路</b> ——"
+         "下一张图把这个往返画出来。<b>XLU 的内部电路仍然没有出处</b> ——"
          "公开资料只说它是个独立单元、而且慢，没说它里面长什么样。", "xs", 19)
 
 

diff --git a/Courses/tools/t02-figs/fig_p28_ports.py b/Courses/tools/t02-figs/fig_p28_ports.py
@@ -58,8 +58,9 @@ WAYS = [
         ("横向？", "阵列自带，不占 XLU"),
         ("延迟", "攒够了才乘一次"),
         ("队列", "<b>要</b>　←　进料和出料<b>都要</b>"),
-    ], "一个 vreg 是 8 × 128，阵列比这大得多，"
-       "<b>一口喂不满 —— 得连推好几个进去</b>。所以它有自己的进料口。"),
+    ], "一次运算是 <b>8×128 乘 128×128</b>。左边那个正好是一个 vreg，"
+       "可<b>权重那一侧有 128 行，一个 vreg 只给得出 8 行</b> —— "
+       "<b>差 16 倍</b>，只能分好多趟送。"),
 ]
 
 
@@ -141,7 +142,8 @@ def _good(f):
 
     para(f, GOOD_X + 18, ry + rh + 16, GOOD_W - 36,
          "<b>每一条端口本身就是 128 lane 宽</b> —— 128 不是要分给大家用的车道，"
-         "<b>它是每条通路的宽度</b>。真正有限的是<b>端口有几条</b>。", "xs", 18)
+         "<b>它是每条通路的宽度</b>。真正有限的是<b>端口有几条</b>。"
+         "<g>（端口具体是什么线、为什么加不起 —— P-30 拆开画。）</g>", "xs", 18)
 
 
 # ══════════════════════════════════════════════════════════════════════
